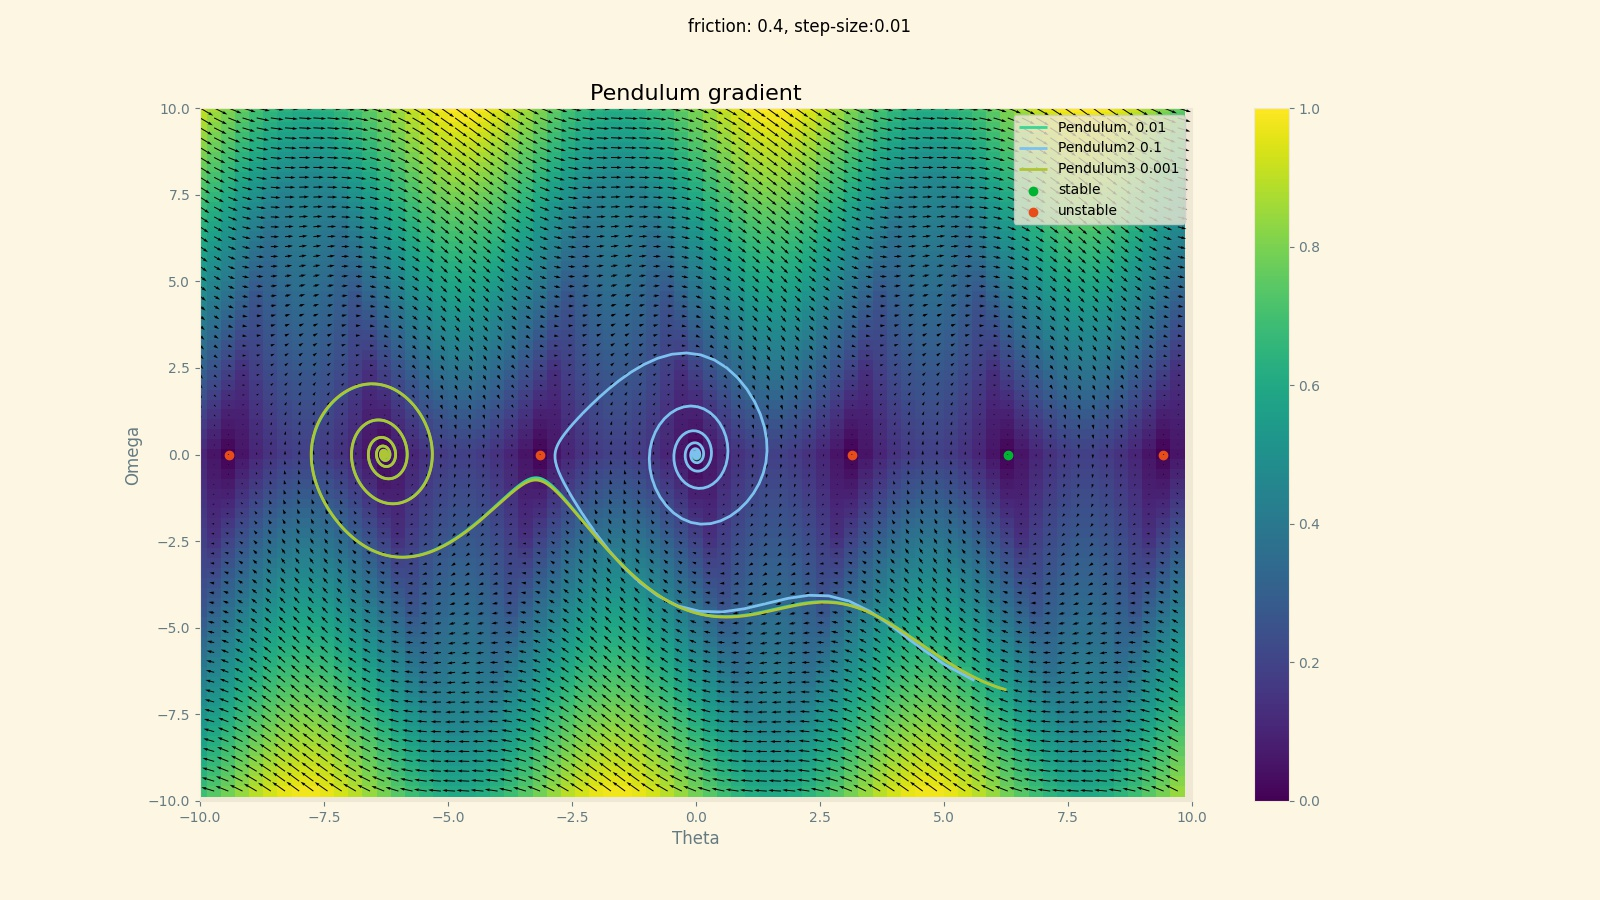
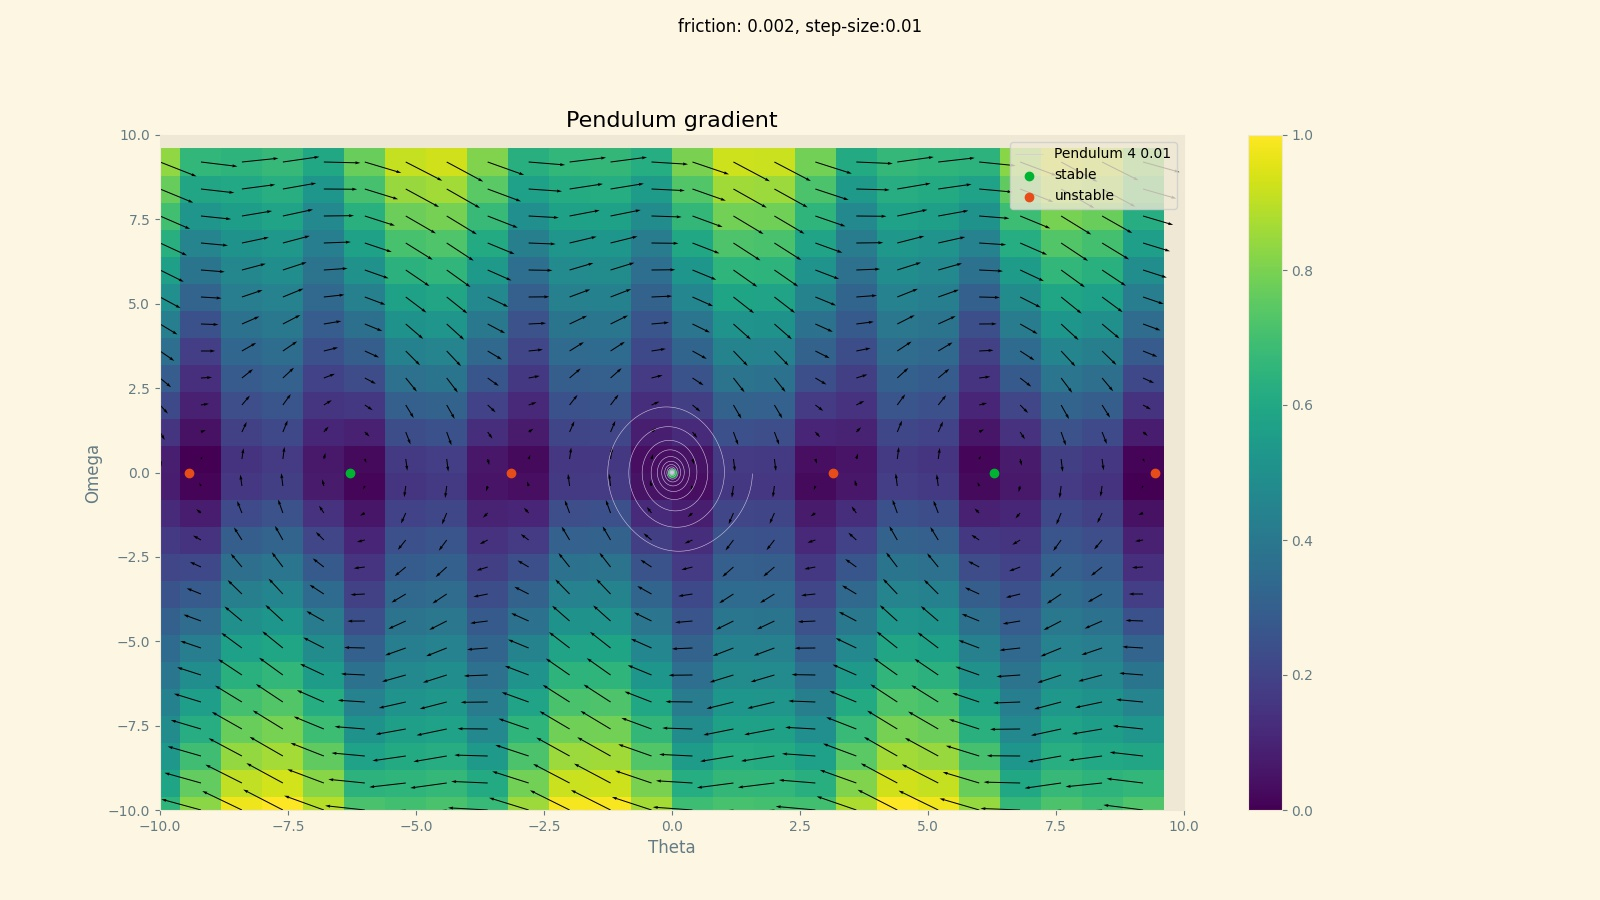
gradient with friction

Changed region(s): [[0.0312, 0.0933, 0.75, 0.9644], [0.7812, 0.0933, 0.8125, 0.9022], [0.4375, 0.0, 0.5625, 0.0622]]

diff --git a/modules/simplependulum.py b/modules/simplependulum.py
@@ -64,9 +64,10 @@ class SinglePendulum:
         theta_old = self.theta
         omega_old = self.omega
 
-        accel = -GRAV * math.sin(theta_old) / self.rope
-        omega = omega_old * (1 - self.friction * step_size) + accel * step_size
-        theta = theta_old + omega * step_size
+        theta, omega = self.pendulum_step(
+                self.theta, self.omega, step_size, friction, self.rope, 0
+        )
+
 
         self.omega = omega
         self.theta = theta
@@ -107,6 +108,22 @@ class SinglePendulum:
 
         return x, y
 
+    @staticmethod
+    def pendulum_step(
+            theta_old, omega_old, step_size, friction, rope, steer_f
+            ):
+        accel = -GRAV * math.sin(theta_old) / rope
+        #steer = np.clip(3.13 - theta_old, -1, 1)
+        #steer = np.tanh(steer*3)
+        #steer = steer * step_size * 1000
+        #steer = 0
+
+        omega = omega_old
+        chg = accel * step_size + steer_f * step_size
+        omega += chg
+        omega = (1-friction) * omega
+        theta = theta_old + omega * step_size
+        return theta, omega
 
 def val_matrix_to_color_matrix(arr):
     arr = arr[:, :, np.newaxis]
@@ -117,7 +134,12 @@ def val_matrix_to_color_matrix(arr):
     return color
 
 
-def pendulum_gradient(plot_range=5, N=45, rope=3, step_size=0.001, friction=0.001):
+def pendulum_gradient(
+        plot_range=5, N=50, rope=3, step_size=0.001, friction=0.001
+    ):
+    """
+    Drawing pendulum gradient
+    """
     T = plot_range
     vec = (np.arange(N) - N / 2) / N * T * 2
     vec_x = vec
@@ -130,13 +152,17 @@ def pendulum_gradient(plot_range=5, N=45, rope=3, step_size=0.001, friction=0.00
     U = np.zeros((N, N))
     V = np.zeros((N, N))
     C = np.zeros((N, N))
+
     for row_ind, row in enumerate(arr):
         for col_ind, (prev_th, prev_om) in enumerate(row):
-            omega = (
-                    prev_om * (1 - friction * step_size)
-                    - GRAV / rope * math.sin(prev_th) * step_size
+            #omega = (
+                    #prev_om * (1 - friction * step_size)
+                    #- GRAV / rope * math.sin(prev_th) * step_size
+            #)
+            #theta = prev_th + prev_om * step_size
+            theta, omega = SinglePendulum.pendulum_step(
+                    prev_th, prev_om, step_size, friction, rope, 0
             )
-            theta = prev_th + prev_om * step_size
 
             om_change = (omega - prev_om)
             th_change = prev_om * step_size
@@ -178,7 +204,8 @@ def pendulum_gradient(plot_range=5, N=45, rope=3, step_size=0.001, friction=0.00
     plt.legend()
     plt.colorbar()
     plt.axis([-plot_range, plot_range, -plot_range, plot_range])
-    # plt.axis('equal')
+    plt.subplots_adjust(bottom=0.1, top=0.85, left=0.1, right=0.9)
+    #ax.set_facecolor(color=(1,0,0))
 
     return ax
 
@@ -186,12 +213,18 @@ def pendulum_gradient(plot_range=5, N=45, rope=3, step_size=0.001, friction=0.00
 "Model Creation"
 
 
-def run_simulation_pendulum(name=None, gradient_ax=None, friction=0.0, time_range=1000, step_size=0.01,
-                            initial_theta=0.0, initial_omega=0.0):
+def run_simulation_pendulum(
+        name=None, gradient_ax=None,
+        friction=0.0, time_range=1000, step_size=0.01,
+        initial_theta=0.0, initial_omega=0.0):
+    """
+    Simulates pendulum and shows it on screen.
+    """
+
     center = (0, 0)
-    model = SinglePendulum(*center, mass=1, rope=3, initial_theta=initial_theta, initial_omega=initial_omega,
-                           step_size=step_size,
-                           friction=friction)
+    model = SinglePendulum(*center, mass=1, rope=3,
+        initial_theta=initial_theta, initial_omega=initial_omega,
+        step_size=step_size, friction=friction)
     all_trace = []
     offset_x = 300
     offset_y = 300
@@ -200,7 +233,9 @@ def run_simulation_pendulum(name=None, gradient_ax=None, friction=0.0, time_rang
         model.step()
         x, y = model.data['x'][-1], model.data['y'][-1]
         all_trace.append((x, y))
+
         if RENDER or SHOW:
+            "Render Stuff"
             array = np.zeros((600, 600, 3), dtype=np.uint8) + 170
             poly = np.array(all_trace[-30:])
             poly[:, 1] *= -1
@@ -238,7 +273,9 @@ def run_simulation_pendulum(name=None, gradient_ax=None, friction=0.0, time_rang
         ax1 = plt.axes([0.1, 0.05, 0.8, 0.6])
         ax2 = plt.axes([0.1, 0.7, 0.8, 0.2])
 
-        ax1.plot(model.data['lin_ve'], label="lin_ve", c=(1, 0, 0.7), linewidth=1)
+        ax1.plot(model.data['lin_ve'], label="lin_ve",
+        c=(1, 0, 0.7), linewidth=0.4)
+
         ax1.plot(model.data['omega'], label="omega", linewidth=1)
         plt.title("Position and speed")
         ax1.legend()
@@ -261,13 +298,14 @@ def run_simulation_pendulum(name=None, gradient_ax=None, friction=0.0, time_rang
         # omg = np.array(model.data['omega']) * -1
         omg = np.array(model.data['omega'])
         c = np.random.random(3)
-        c[1] = c[1] * 0.4 + 0.5
-        gradient_ax.plot(model.data['theta'], omg, label=name, color=c)
+        c[1] = c[1] * 0.4 + 0.5  # Color change
+        gradient_ax.plot(model.data['theta'], omg, label=name,
+        color=c, linewidth=0.4)
+
         gradient_ax.legend(loc=1)
 
 
-friction = 0.4
-# friction = 0
+friction = 0.002
 step_size = 0.01
 SHOW = False
 RENDER = False
@@ -277,18 +315,29 @@ PLOT = False
 initial_theta = math.radians(179 + 180)
 initial_omega = -7.2 + 0.4
 time_range = 5_000
-ax = pendulum_gradient(N=70, plot_range=10, friction=friction, step_size=step_size)
+ax = pendulum_gradient(N=25, plot_range=10, friction=friction, step_size=step_size)
 
-run_simulation_pendulum(f"Pendulum, {step_size}", ax,
-                        friction=friction, time_range=time_range, step_size=step_size,
-                        initial_theta=initial_theta, initial_omega=initial_omega)
-run_simulation_pendulum(f"Pendulum2 {step_size * 10}", ax,
-                        friction=friction, time_range=time_range // 10, step_size=step_size * 10,
-                        initial_theta=initial_theta, initial_omega=initial_omega)
-run_simulation_pendulum(f"Pendulum3 {step_size / 10}", ax,
-                        friction=friction, time_range=time_range * 10, step_size=step_size / 10,
-                        initial_theta=initial_theta, initial_omega=initial_omega)
+#run_simulation_pendulum(f"Pendulum, {step_size}", ax, friction=friction,
+                        #time_range=time_range, step_size=step_size,
+                        #initial_theta=initial_theta,
+                        #initial_omega=initial_omega)
+#run_simulation_pendulum(f"Pendulum2 {step_size * 10}", ax, friction=friction,
+                        #time_range=time_range // 10, step_size=step_size * 10,
+                        #initial_theta=initial_theta,
+                        #initial_omega=initial_omega)
+#
+#run_simulation_pendulum(f"Pendulum3 {step_size / 10}", ax, friction=friction,
+                        #time_range=time_range * 10, step_size=step_size / 10,
+                        #initial_theta=initial_theta,
+                        #initial_omega=initial_omega)
+
+run_simulation_pendulum(f"Pendulum 4 {step_size}", ax,
+                        friction=friction, time_range=time_range,
+                        step_size=step_size,
+                        initial_theta=np.deg2rad(90),
+                        initial_omega=0)
+
 fig = ax.figure
 fig.savefig("pendulum.jpg")
 
-plt.show()
+#plt.show()
